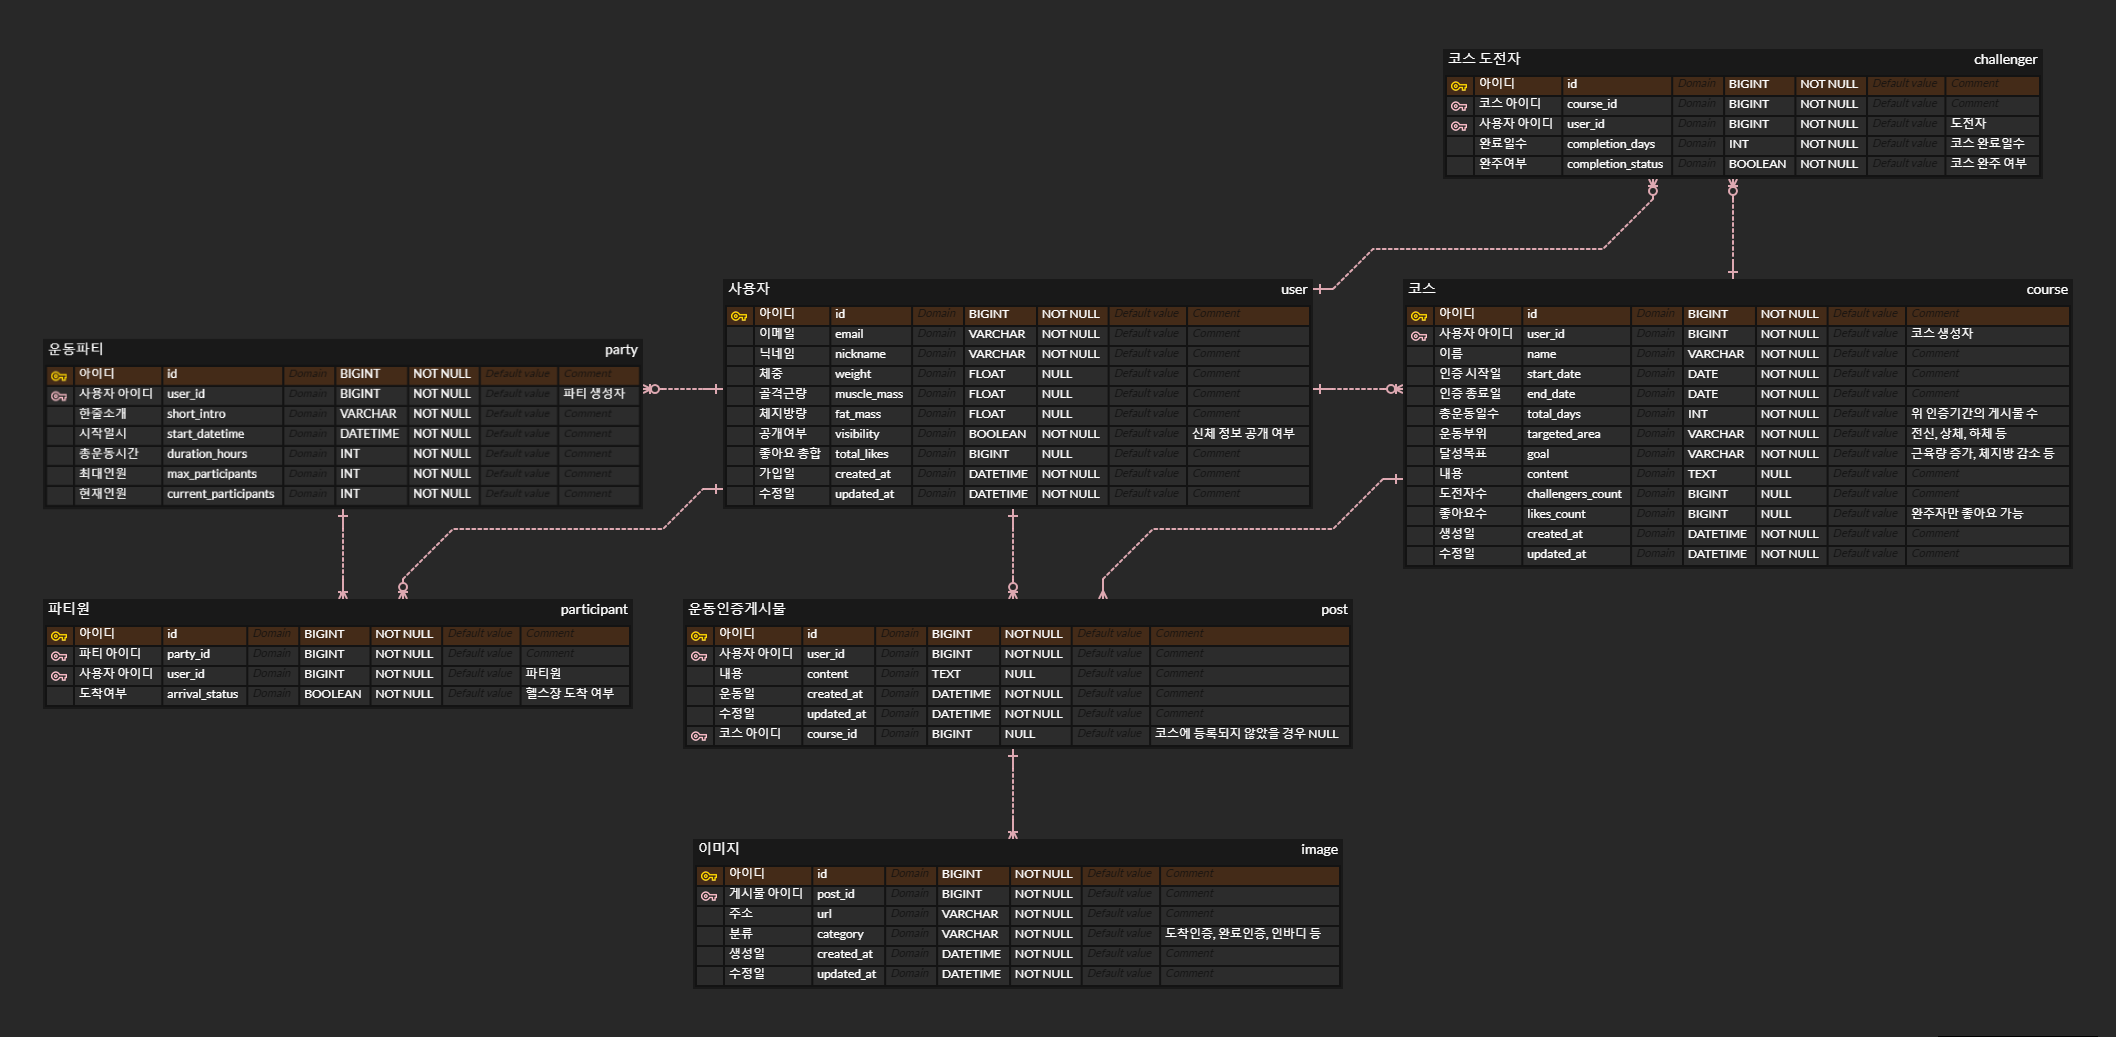
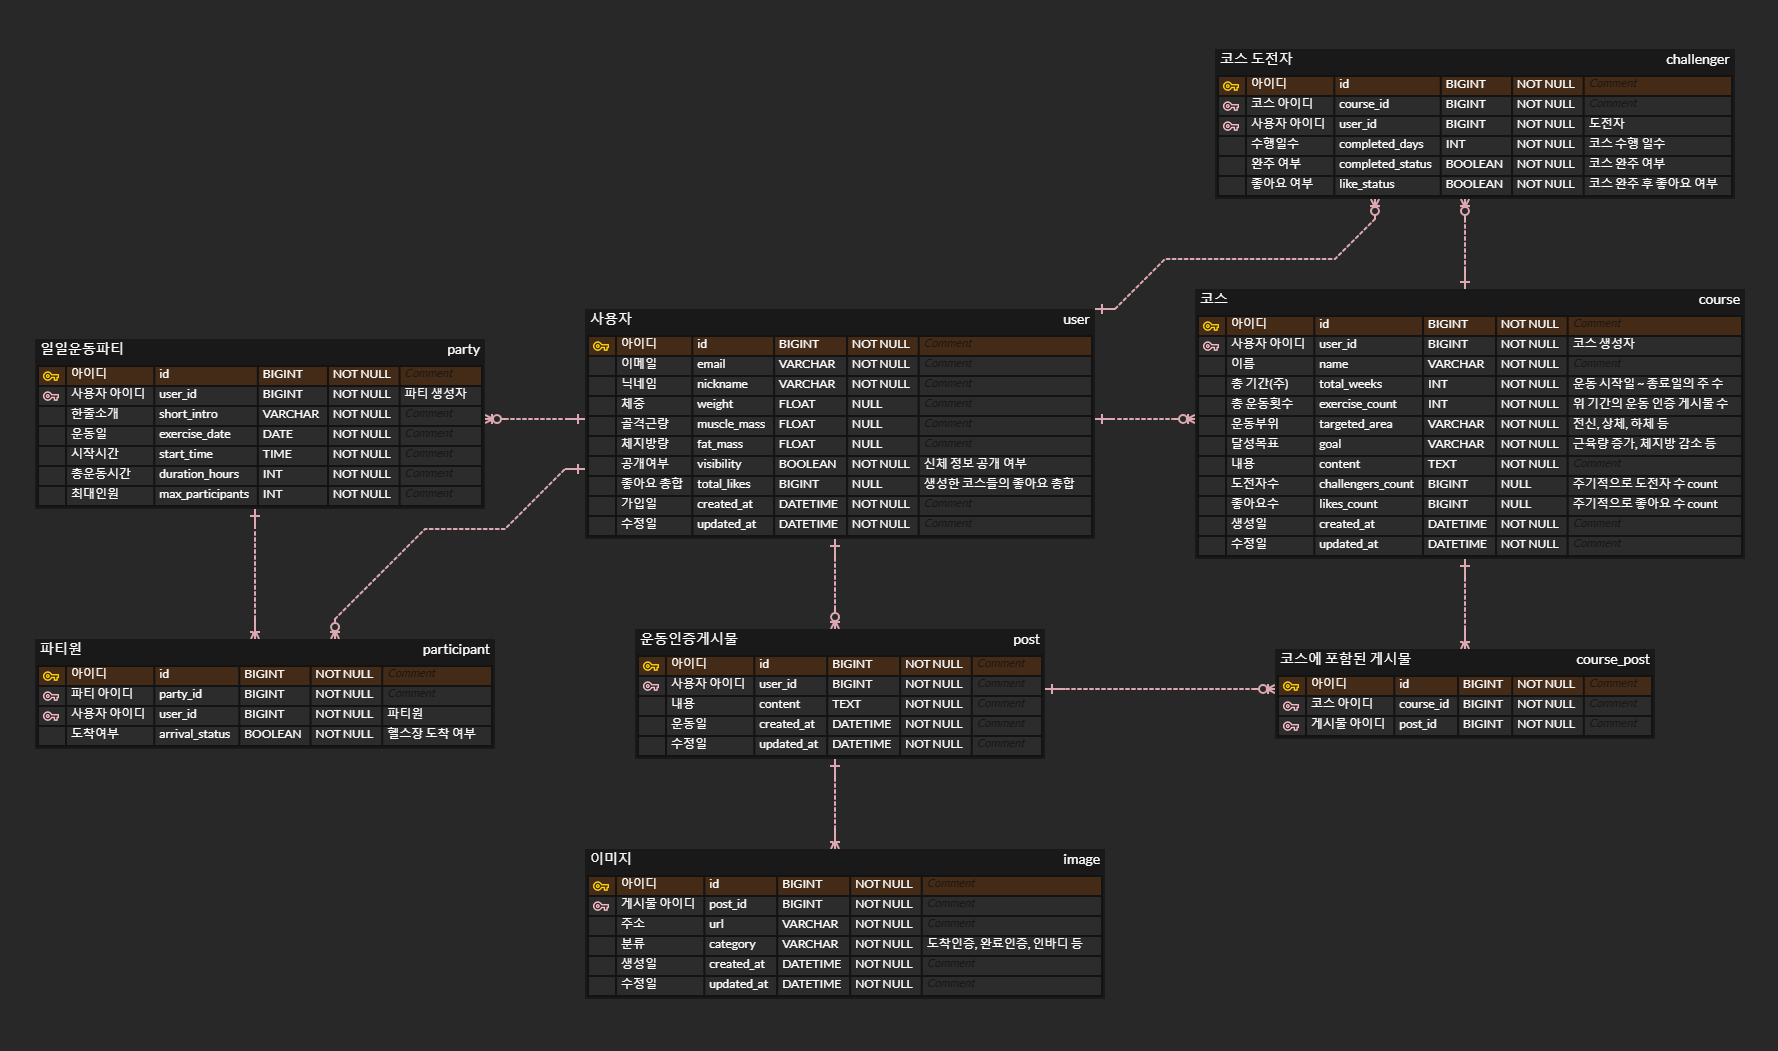
docs : update ERD file, README.md

diff --git a/README.md b/README.md
@@ -8,43 +8,58 @@
 - 회원가입 & 로그인 기능
     - 카카오 오픈 API 를 활용하였습니다.
     - 사용자는 카카오톡 아이디로 간편하게 회원가입 및 로그인을 할 수 있습니다.
-    - 모든 기능은 로그인 사용자만 이용가능합니다.
+    - 모든 기능은 로그인 사용자만 이용 가능합니다.
 
-- 운동 파티 모집 기능
-    - 사용자는 파티를 생성할 수 있습니다.
-    - 파티 생성시 한줄로 작성한 소개글, 운동시작일시, 총운동시간, 최대모집인원을 입력해야 합니다.
+- 일일 운동 파티 모집 기능
+    - 사용자는 일일 운동 파티를 생성할 수 있습니다.
+    - 파티 생성 시 입력받는 내용은 다음과 같습니다.
+      - 파티 소개글(한 줄), 운동일, 시작시간, 총운동시간, 최대모집인원
 
-- 운동 파티 검색 & 참가 기능
-    - 사용자는 원하는 날짜를 지정하여 모집 중인 파티를 검색할 수 있습니다.
+- 일일 운동 파티 검색 기능
+    - 사용자는 원하는 날짜를 지정하여 파티를 검색할 수 있습니다.
+    - 검색 결과는 운동 시작 시간순으로 정렬됩니다.
+    - 검색 날짜가 당일인 경우, 운동시작시간이 검색시간으로부터 1시간 이후인 파티만 검색됩니다.
     - 모집인원이 달성된 파티는 검색되지 않습니다.
-    - 파티 목록은 운동시작일시를 기준으로 정렬됩니다.
-    - 원하는 파티에 자리가 있다면 바로 참가할 수 있습니다. (동시성 이슈 발생하지 않도록 lock 활용)
+
+- 일일 운동 파티 참가 기능
+    - 사용자는 원하는 파티에 참가 신청을 할 수 있습니다.
+    - 원하는 파티에 자리가 있다면, 신청 즉시 수락됩니다. 이외에는 거절됩니다.
+    - 동시성 이슈가 발생하지 않도록 lock 을 활용하였습니다.
+
+- 헬스장 도착 인증 기능 (운동 인증 게시물 생성)
+    - 사용자는 헬스장 도착 인증 게시물을 포스팅할 수 있습니다.
+    - 게시물에는 사진 한 장이 필수로 포함되어야 합니다.
+    - 이미지 스토리지는 Amazon S3 를 사용하였습니다.
+    - 게시물 생성 시 내용란에는 " 오늘 운동 시작 :) " 이 자동으로 입력됩니다.
+    - 당일 운동 파티 참가자의 경우, 도착 인증 시 도착상태가 True 로 변경됩니다.
+    - 또한 파티원들에게 "ㅇㅇ님이 운동을 시작하셨습니다." 알람이 갑니다.
 
 - 파티원 도착 미인증시 알람 기능
-    - 운동시작시간 10분 후에도 헬스장 도착인증 사진을 올리지 않을 경우, 해당 파티원에게 푸시 알람이 가게 됩니다.
+    - 일일 파티 운동 시작시간 20분 후, 도착상태가 false 인 경우,
+    - 해당 파티원에게 "ㅇㅇ님 힘내서 헬스장에 가볼까요? :) " 알람이 갑니다.
 
-- 운동 인증 게시물 올리기 기능
-    - 하루에 한개의 게시물만 올릴수있습니다.
-    - 처음 게시물 생성시 헬스장 도착인증 사진이 꼭 포함되어야 합니다.
-    - 운동완료후 완료인증 사진을 추가할 수 있습니다.
-    - 글 입력은 선택이며, 입력할 경우 해당일 실행한 운동명과 횟수, 식단 병행 유무, 현재 인바디 등의 내용을 입력할 수 있습니다.
-    - 이미지의 경우 amazon 의 s3 기술을 활용하였습니다.
+- 운동 완료 인증 기능 (운동 인증 게시물 수정)
+    - 사용자는 운동 완료 후, 게시물에 완료 인증 사진을 추가할 수 있습니다.
+    - 게시물 내용 또한 자유롭게 수정할 수 있습니다.
+    - (해당일 실행한 운동명과 횟수, 식단 병행 유무, 현재 인바디 등)
 
 - 코스 생성 기능
     - 본인의 운동 루틴을 공유하고 싶은 사용자는 코스를 생성할 수 있습니다.
-    - 코스 생성시 입력받는 내용은 다음과 같습니다.
-    - 코스 이름, 인증 시작일, 인증 종료일, 운동부위, 달성한 목표, 내용(인바디 결과, 운동 노하우 등)
-    - 입력받은 인증 시작일 ~ 종료일 사이의 코스 생성자의 운동게시물을 조회하여 총운동일수를 계산합니다.
+    - 코스 생성 시 입력받는 내용은 다음과 같습니다.
+      - 코스 이름, 인증 시작일, 인증 종료일, 운동부위, 달성한 목표, 내용(인바디 변화, 운동 노하우 등)
+    - 입력받은 인증 시작일과 종료일로 총 기간(주) 를 계산합니다.
+    - 위 기간의 운동인증게시물 수를 카운트하여 총 운동횟수를 계산합니다.
 
 - 코스 검색 기능
-    - 사용자는 운동부위, 달성목표, 코스 내용 등을 바탕으로 코스를 검색할 수 있습니다.
-    - 코스는 최신순, 도전자수, 좋아요수 순으로 정렬할 수 있습니다.
+    - 사용자는 코스를 검색할 수 있습니다.
+    - 검색은 Elastic search 를 활용하였습니다.
+    - 검색 결과는 최신순, 도전자수, 좋아요수 순으로 정렬할 수 있습니다.
 
-- 코스 도전 기능
+- 코스 도전 & 좋아요 기능
     - 사용자는 본인이 원하는 코스에 도전할 수 있습니다.
-    - 코스 도전 후 운동인증게시물을 올릴때마다 완료일수가 증가하게 됩니다.
-    - 코스의 총운동일수만큼 완료하였을 경우 완주 상태로 변경됩니다.
-    - 완주자의 경우 해당 코스에 좋아요를 누를수 있습니다.
+    - 코스 도전자의 경우, 운동인증게시물을 올릴 때마다 수행일수가 증가합니다.
+    - 코스의 총운동횟수만큼 수행하였을 경우 완주 상태로 변경됩니다.
+    - 완주 시 코스 도전자에게 좋아요를 누를 것인지 물어봅니다.
 
 ## ERD
 
